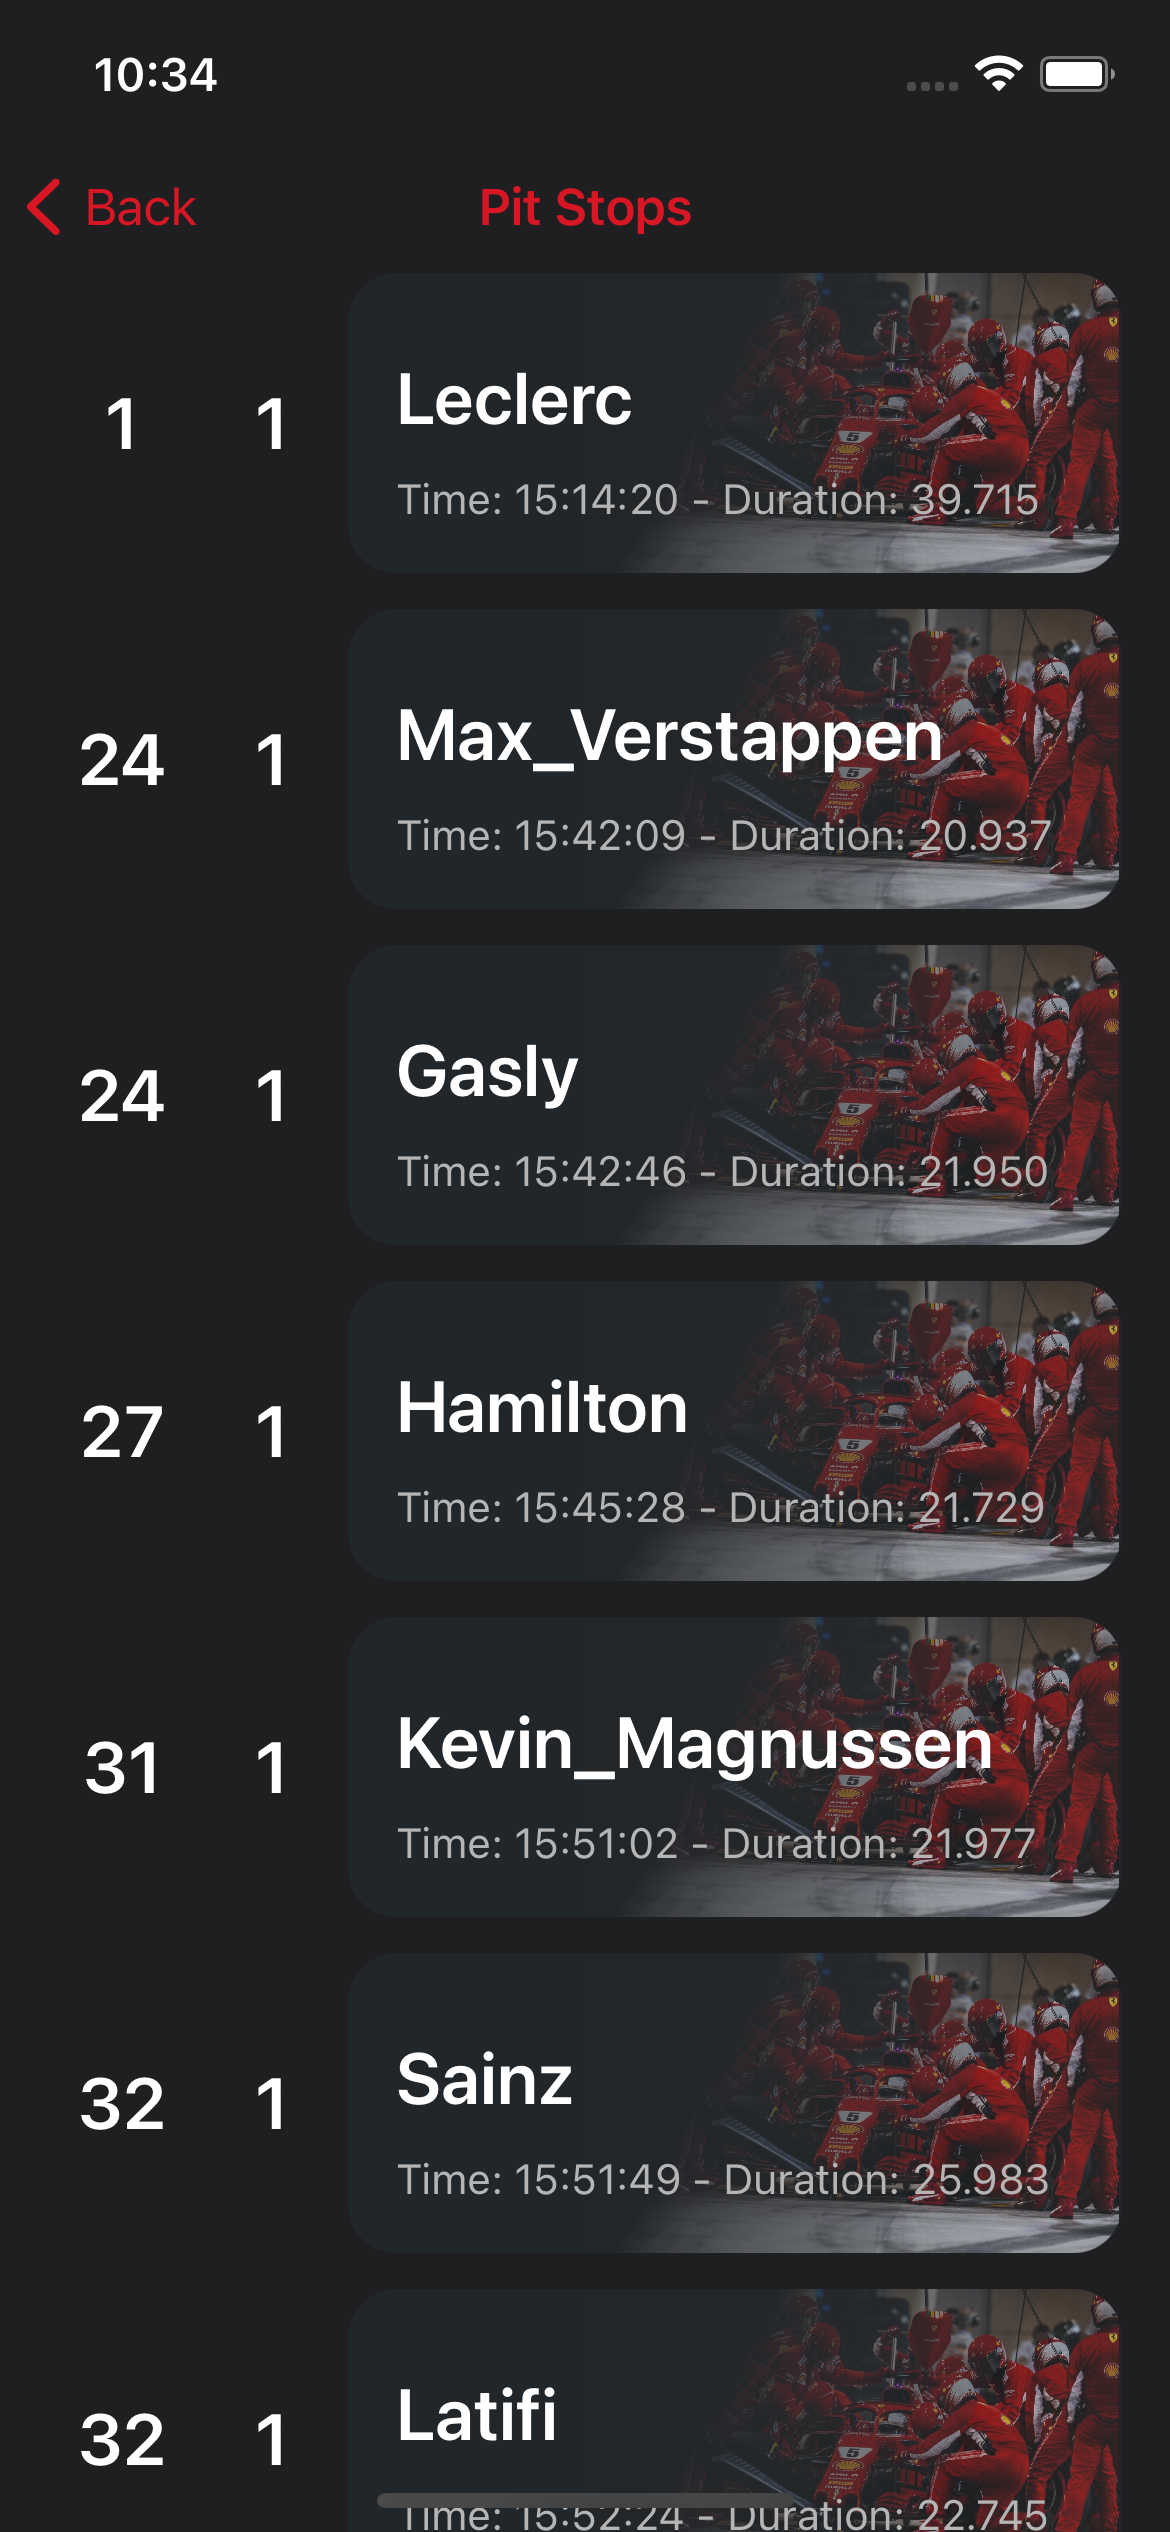
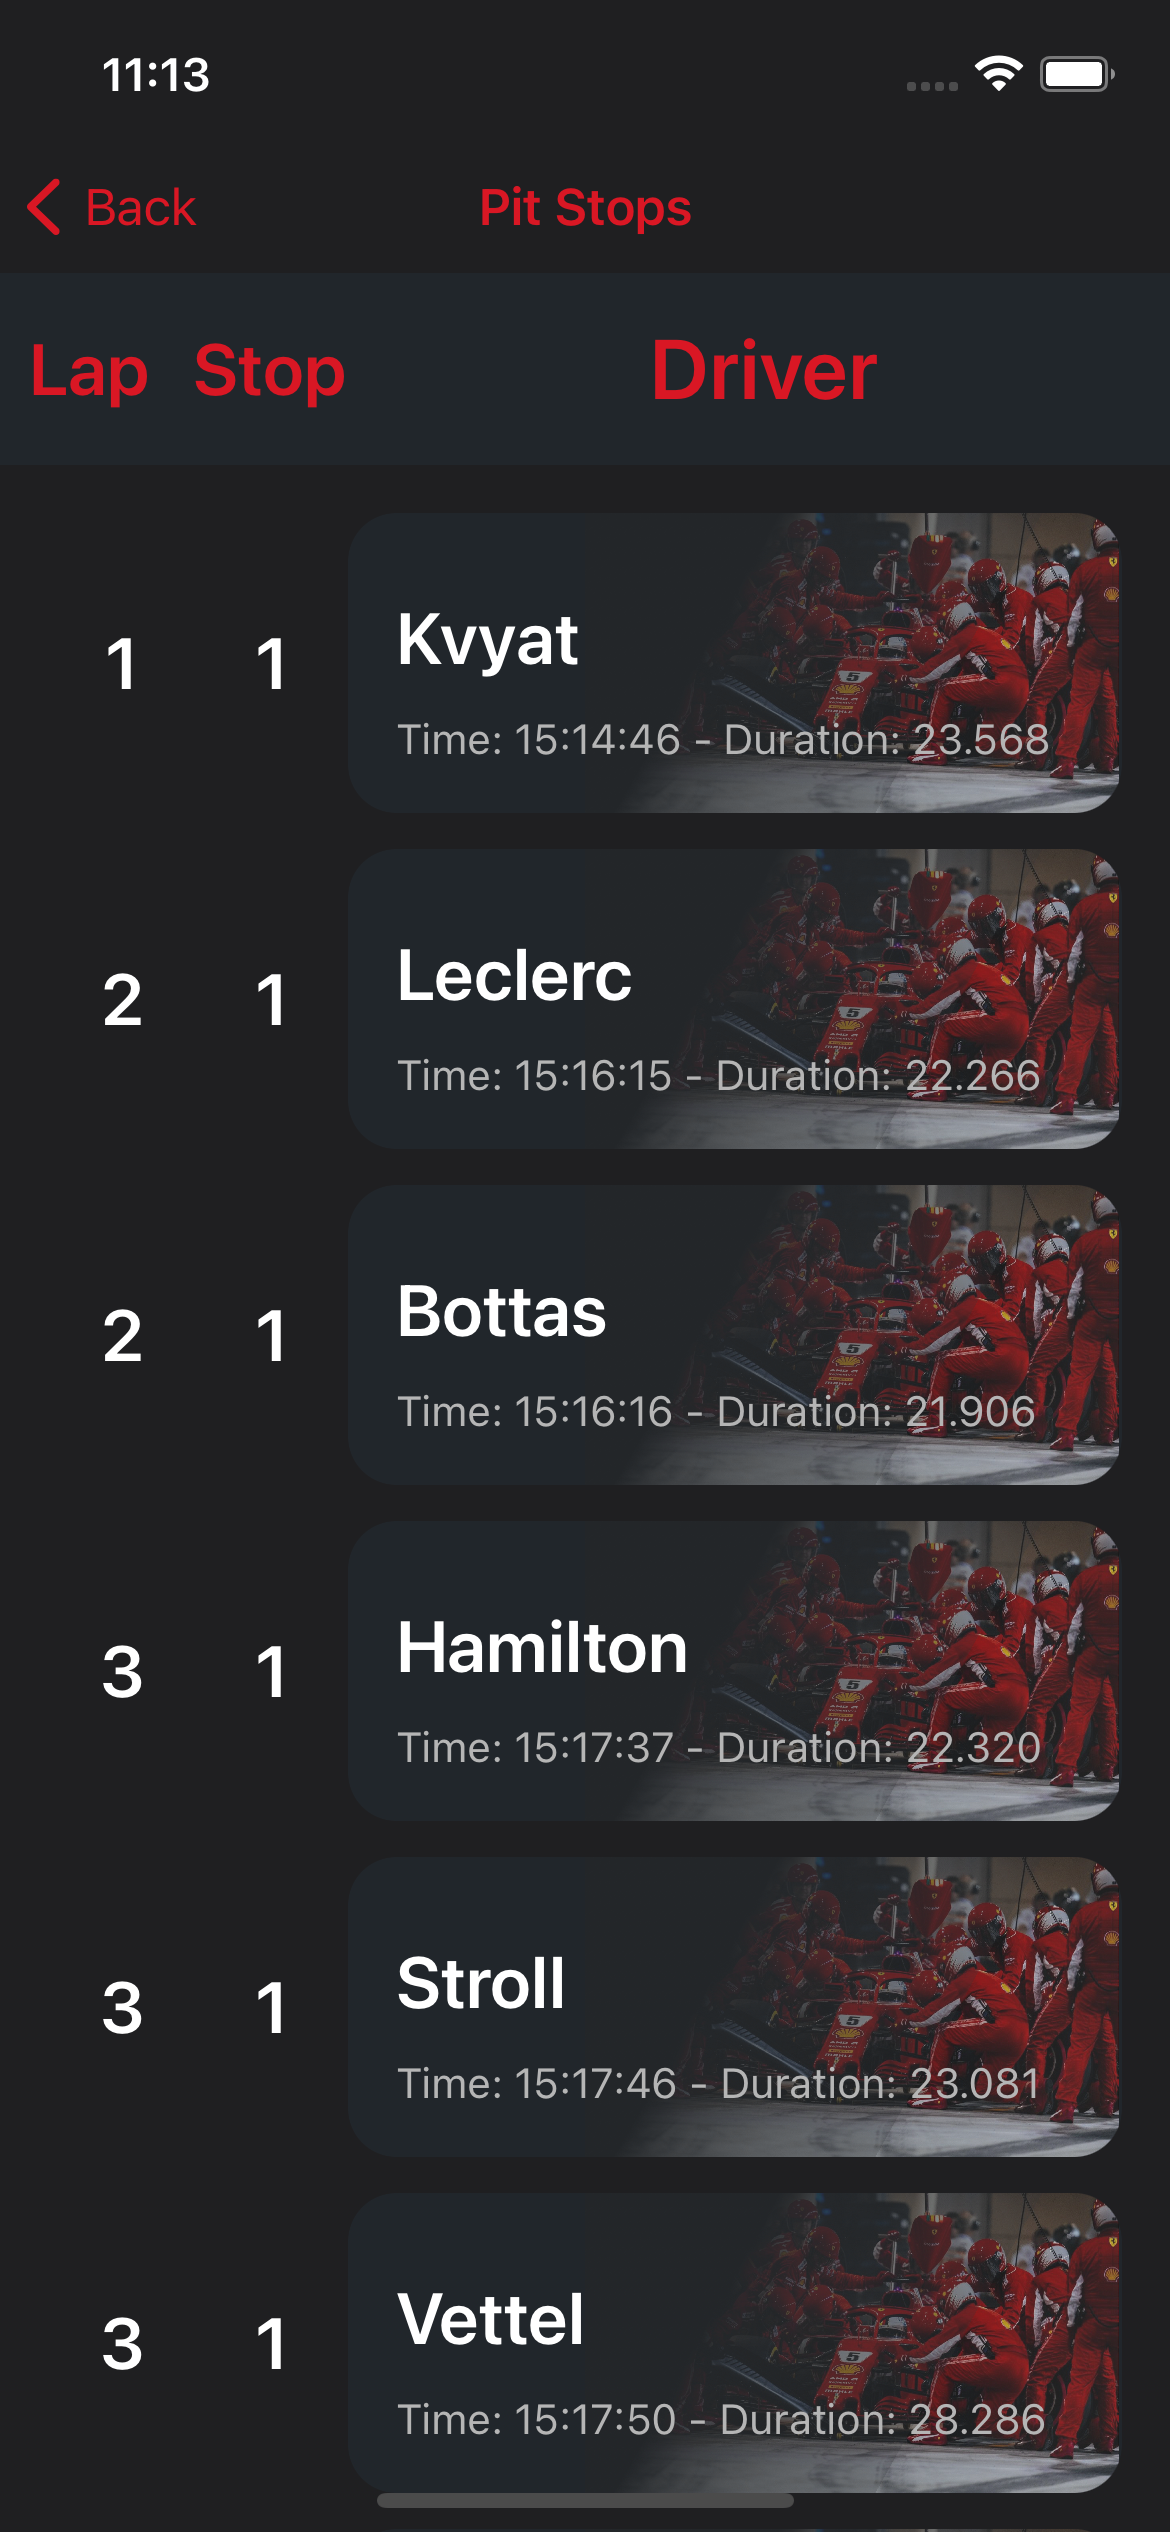
Add infoView

diff --git a/F1/F1/Scenes/Pitstops/PitStopsViewController.swift b/F1/F1/Scenes/Pitstops/PitStopsViewController.swift
@@ -23,6 +23,44 @@ final class PitStopsViewController: ViperViewController<ViewToPresenterPitStopsP
     
     private lazy var activityIndicator = UIActivityIndicatorView(style: UIActivityIndicatorView.Style.large)
 
+    private lazy var lapLabel: UILabel = {
+        let label = UILabel()
+        label.font = UIFont.boldSystemFont(ofSize: 24)
+        label.textColor = Colors.red
+        label.text = "Lap"
+        label.textAlignment = .center
+        return label
+    }()
+    
+    private lazy var stopLabel: UILabel = {
+        let label = UILabel()
+        label.font = UIFont.boldSystemFont(ofSize: 24)
+        label.textColor = Colors.red
+        label.text = "Stop"
+        label.textAlignment = .center
+        return label
+    }()
+    
+    private lazy var lapStopStack: UIStackView = {
+        let stack = UIStackView()
+        stack.addArrangedSubview(lapLabel)
+        stack.addArrangedSubview(stopLabel)
+        stack.axis = .horizontal
+        stack.distribution = .fillEqually
+        return stack
+    }()
+    
+    private lazy var infoView = UIView()
+    
+    private lazy var driverLabel: UILabel = {
+        let label = UILabel()
+        label.text = "Driver"
+        label.font = UIFont.boldSystemFont(ofSize: 28)
+        label.textColor = Colors.red
+        label.textAlignment = .center
+        return label
+    }()
+    
     private lazy var collectionView: UICollectionView = {
         let flowLayout = UICollectionViewFlowLayout()
         flowLayout.scrollDirection = .vertical
@@ -53,12 +91,30 @@ final class PitStopsViewController: ViperViewController<ViewToPresenterPitStopsP
     }
 
     override func buildViewHierarchy() {
+        infoView.addSubview(lapStopStack)
+        infoView.addSubview(driverLabel)
+        view.addSubview(infoView)
         view.addSubview(collectionView)
     }
     
     override func setupConstraints() {
+        lapStopStack.snp.makeConstraints {
+            $0.width.equalTo(120)
+            $0.top.bottom.leading.equalToSuperview()
+        }
+        
+        driverLabel.snp.makeConstraints {
+            $0.leading.equalTo(lapStopStack.snp.trailing)
+            $0.top.bottom.trailing.equalToSuperview()
+        }
+        
+        infoView.snp.makeConstraints {
+            $0.top.leading.trailing.equalToSuperview()
+            $0.height.equalTo(64)
+        }
         collectionView.snp.makeConstraints {
-            $0.edges.equalToSuperview()
+            $0.top.equalTo(infoView.snp.bottom).offset(16)
+            $0.leading.trailing.bottom.equalToSuperview()
         }
     }
 
@@ -66,6 +122,7 @@ final class PitStopsViewController: ViperViewController<ViewToPresenterPitStopsP
         title = "Pit Stops"
         view.backgroundColor = Colors.base
         activityIndicator.color = Colors.white
+        infoView.backgroundColor = Colors.secondaryBase
     }
 }
 

diff --git a/F1/F1/Scenes/RaceDetail/View/DriverCollectionViewCell.swift b/F1/F1/Scenes/RaceDetail/View/DriverCollectionViewCell.swift
@@ -111,6 +111,7 @@ extension DriverCollectionViewCell: ViewConfiguration {
             $0.leading.top.equalToSuperview()
             $0.width.equalTo(80)
         }
+        
         stack.snp.makeConstraints {
             $0.edges.equalToSuperview().inset(16)
         }
